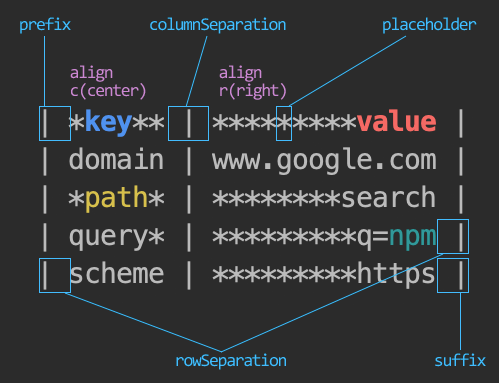
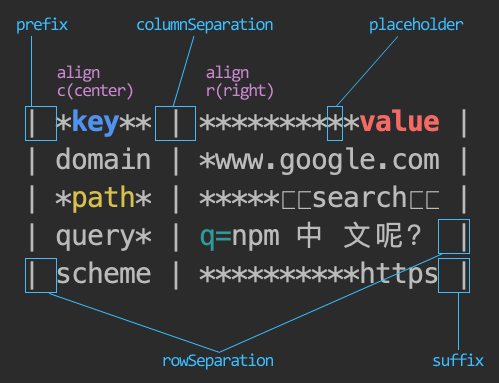
Compatible with double-byte characters, emoji emoticons.\nOptimization efficiency

diff --git a/index.js b/index.js
@@ -1,5 +1,17 @@
-function strip(str) {
-    return ('' + str).replace(/\x1B\[\d+m/g, '');
+"use strict";
+
+var emojiRegex = require('emoji-regex')();
+
+function stripANSI(str) {
+    return str.replace(/\x1B\[\d+m/g, '');
+}
+
+function stripWRAP(str) {
+    return str.replace(/[\n\r]+/g, ' ');
+}
+
+function stripEmoji(str) {
+    return str.replace(emojiRegex, '');
 }
 
 function split(source, symbol) {
@@ -14,10 +26,26 @@ function isArray(t) {
     return Array.isArray(t);
 }
 
+/**
+ * String real width
+ * @param str
+ * @returns {number}
+ *
+ * Emoji: 2
+ * Double-byte character: 2
+ * Others: 1
+ */
+function realWidth(str) {
+    if (str == null)
+        return 0;
+    str = stripANSI(str);
+    return str.length + (stripEmoji(str).match(/[^\x00-\xff]/g) || []).length;
+}
+
 function PC(source, config) {
-    if (source == null) {
+    if (source == null)
         return;
-    }
+
     this.config = {
         prefix: '',
         suffix: '',
@@ -27,6 +55,7 @@ function PC(source, config) {
         rowSplitSymbol: "\n",
         columnSplitSymbol: "\t"
     };
+
     this._STATS = {
         originalSource: source,
         source: null,
@@ -37,9 +66,9 @@ function PC(source, config) {
         width: [],
         align: []
     };
+
     this.params(config);
     this.parse();
-    this.sizeAgent();
     this.fixAlign();
     this.format();
 }
@@ -51,40 +80,29 @@ tp.params = function params(config) {
 };
 
 tp.parse = function parse() {
-    this._STATS.source = split(this._STATS.originalSource, this.config.rowSplitSymbol).map(function (row) {
-        return split(row, this.config.columnSplitSymbol);
+    this._STATS.source = split(this._STATS.originalSource, this.config.rowSplitSymbol).map(function (row, rowNum) {
+        if (this._STATS.columns < row.length)
+            this._STATS.columns = row.length;
+        this._STATS.width[rowNum] = [];
+        return split(row, this.config.columnSplitSymbol).map(function (column, columnNum) {
+            var length = this._STATS.width[rowNum][columnNum] = realWidth(column);
+            if (!this._STATS.maxWidth.hasOwnProperty(columnNum) || this._STATS.maxWidth[columnNum] < length)
+                this._STATS.maxWidth[columnNum] = length;
+            return stripWRAP(column);
+        }.bind(this));
     }.bind(this));
     this._STATS.rows = this._STATS.source.length;
 };
 
-tp.sizeAgent = function sizeAgent() {
-    this._STATS.source.forEach(function (row, rowNum) {
-        if (this._STATS.columns < row.length) {
-            this._STATS.columns = row.length;
-        }
-        this._STATS.width[rowNum] = [];
-        row.forEach(function (column, columnNum) {
-            var length = this._STATS.width[rowNum][columnNum] = strip(column).length;
-            if (this._STATS.maxWidth[columnNum] == null || this._STATS.maxWidth[columnNum] < length) {
-                this._STATS.maxWidth[columnNum] = length;
-            }
-        }.bind(this))
-    }.bind(this));
-};
-
 tp.fixAlign = function fixAlign() {
-
     var align = (new Array(this._STATS.columns)).fill(0);
-
     var optAlign = [];
-
     if (this.config.hasOwnProperty('align')) {
         if (isString(this.config.align)) {
             optAlign = this.config.align.split('');
         } else if (isArray(this.config.align)) {
             optAlign = this.config.align;
         }
-
         Object.assign(align, optAlign.slice(0, this._STATS.columns).map(function (item) {
             switch (item) {
                 case 1:
@@ -103,7 +121,6 @@ tp.fixAlign = function fixAlign() {
             }
         }));
     }
-
     this._STATS.align = align;
 };
 

diff --git a/test/script.js b/test/script.js
@@ -17,11 +17,11 @@ var source_array = [
     ],
     [
         chalk.yellow("path"),
-        "search"
+        "😘search🐰"
     ],
     [
         "query",
-        "q=" + colors.cyan("npm")
+        colors.cyan("q=") + "npm 中\n文呢？"
     ],
     [
         "scheme",

diff --git a/README.md b/README.md
@@ -1,6 +1,16 @@
 # pretty-columns
 
-Support colors, chalk and other ansi.
+- Support [colors](https://www.npmjs.com/package/colors), [chalk](https://www.npmjs.com/package/chalk) and other ansi.
+- Compatible with double-byte characters, emoji emoticons.
+- Best display when using monospaced fonts.
+- Content can only be displayed in a single line, automatically remove "\n" or "\r" from content.
+- Multi-line display may be possible. (lazy.. stretched)
+
+## Via [npm](https://www.npmjs.com/)
+
+```javascript
+npm install pretty-columns
+```
 
 ## Usage
 
@@ -31,8 +41,6 @@ console.columns(input);
 
 ## About Input
 
-
-
 ### String
 
 ```javascript
@@ -55,13 +63,14 @@ var input = ['A,B','1,2'];
 
 |property|description|default|
 |---|---|---|
+|rowSplitSymbol|Row split symbol(when string input given)|"\n" (can be regexp)|
+|columnSplitSymbol|Column split symbol(when string input given)|"\t" (can be regexp)|
+|align|Alignment:<br>\['right', 'center', ...\]<br>OR<br>'rc...'|Filling "left" when insufficient.<br>Ignored when redundant.|
+|rowSeparation|Rows connector|"\n"|
+|columnSeparation|Columns connector|" "|
 |prefix|Prefix at output|""|
 |suffix|Suffix at output|""|
 |placeholder|Fill white space|" "|
-|columnSeparation|Columns connector|" "|
-|rowSeparation|Rows connector|"\n"|
-|rowSplitSymbol|Row split symbol(when string input given)|"\n"(can be regexp)|
-|columnSplitSymbol|Column split symbol(when string input given)|"\t"(can be regexp)|
 
 ## Example
 
@@ -82,11 +91,11 @@ var INPUT = [
     ],
     [
         chalk.yellow("path"),
-        "search"
+        "😘search🐰"
     ],
     [
         "query",
-        "q=" + colors.cyan("npm")
+        colors.cyan("q=") + "npm 中\n文呢？"
     ],
     [
         "scheme",
@@ -107,9 +116,3 @@ output(INPUT, {
 **Print**
 
 ![](https://raw.githubusercontent.com/shinate/pretty-columns/master/thumbnails/description.png)
-
-## *PS
-
-- Best display when using monospaced fonts.
-- Content can only be displayed in a single line.
-- Multi-line display may be possible. (lazy.. stretched)
